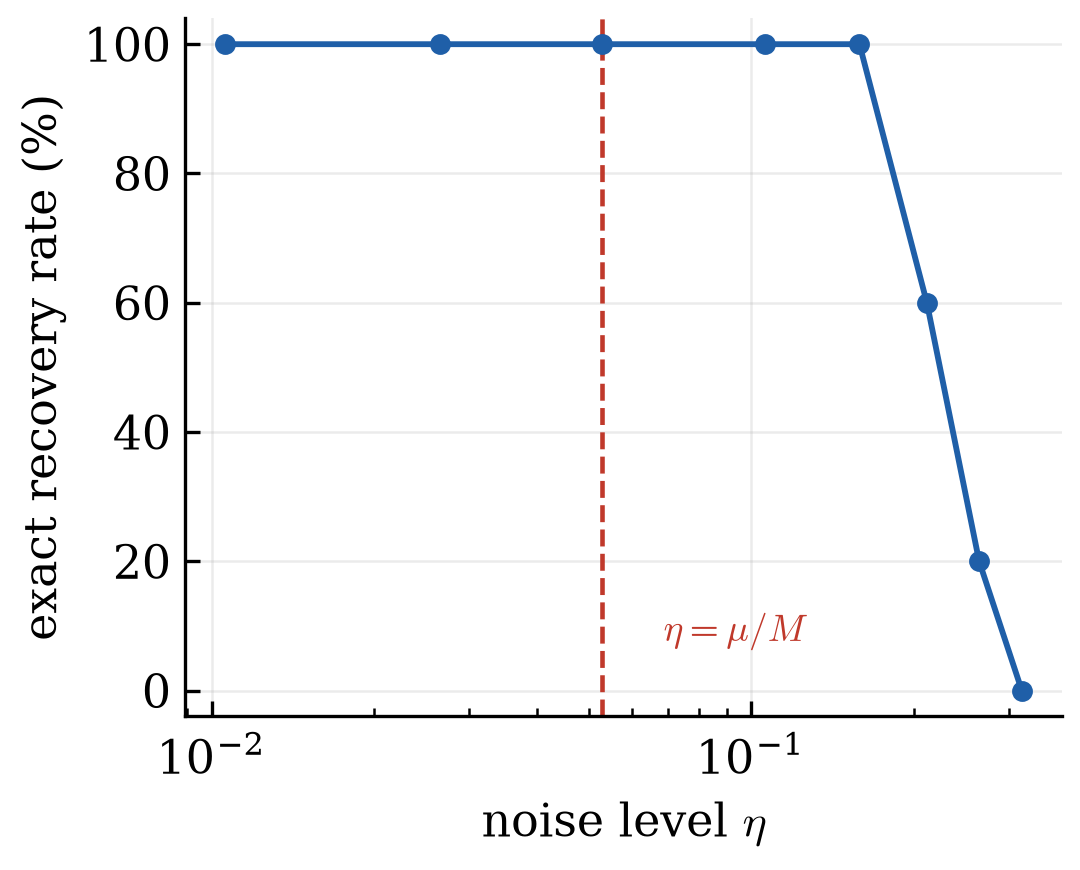
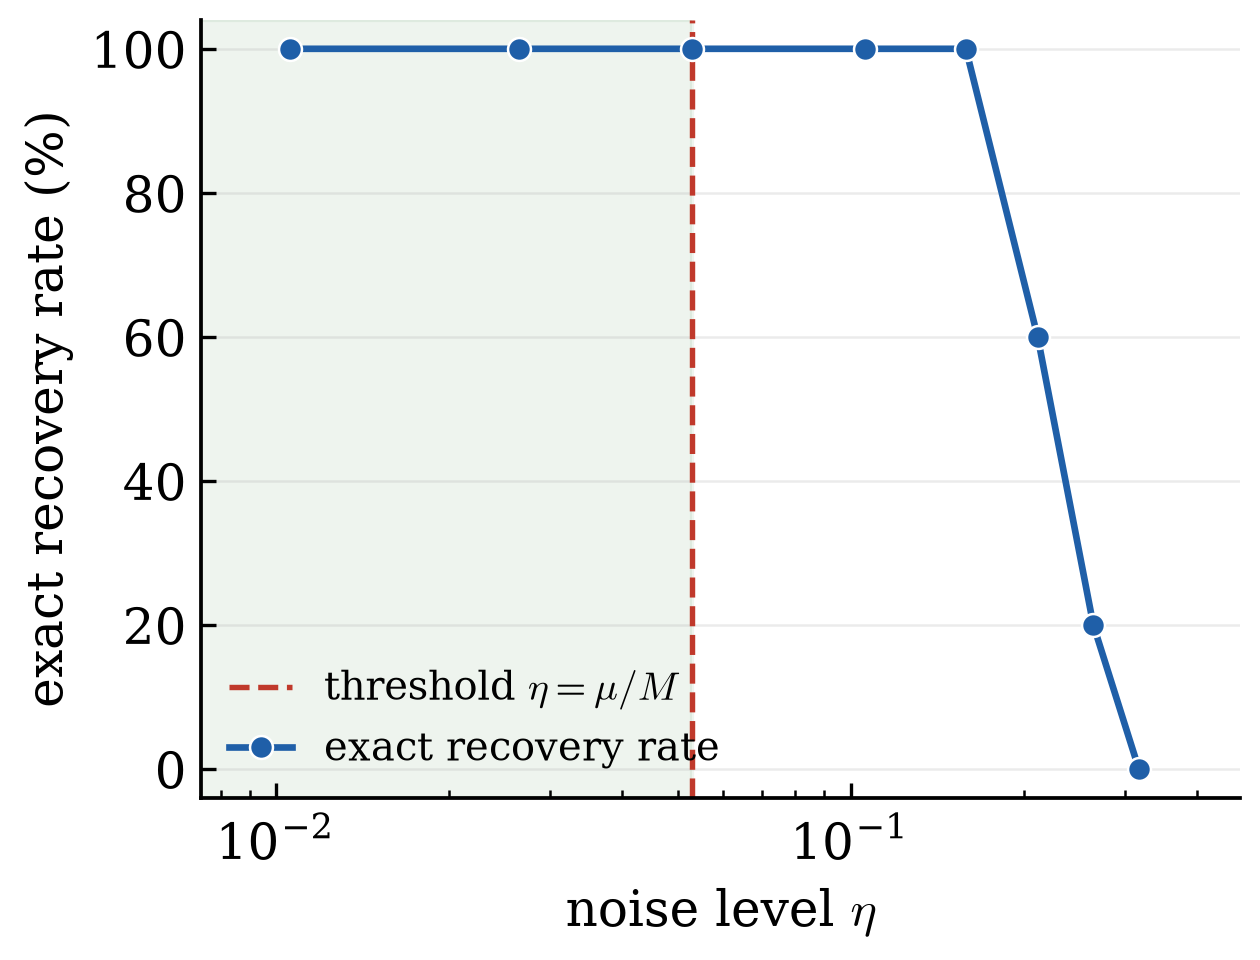
Version pro de la figure Exp 2 : zone garantie ombree, legende, echelle log avec ticks mineurs lisibles

diff --git a/figure_papier_bruit_eta_reel.py b/figure_papier_bruit_eta_reel.py
@@ -1,9 +1,8 @@
 """ Figure Exp 2 (validation du Theoreme 3, robustesse au bruit) : axe X
 = bruit reel eta, ligne verticale = valeur exacte de mu/M, pour UNE
 cible concrete fixee (n=4, cible=[1,2,3,4], a=1.0 b=0.3 c=1.0 d=0.1 --
-nos parametres habituels). Plus concrete/lisible que le graphe agrege
-sur plusieurs n (r=eta/eta_max) : montre directement les vrais nombres
-pour un exemple precis, avec le seuil bien centre dans la plage testee.
+nos parametres habituels). Version "pro" : zone garantie ombree, legende
+propre, echelle log avec ticks lisibles.
 """
 
 import matplotlib
@@ -11,31 +10,51 @@ matplotlib.use("Agg")
 matplotlib.rcParams.update({
     "font.family": "serif",
     "mathtext.fontset": "cm",
-    "font.size": 11,
-    "axes.linewidth": 0.8,
+    "font.size": 12,
+    "axes.linewidth": 0.9,
     "xtick.direction": "in",
     "ytick.direction": "in",
+    "xtick.minor.visible": True,
+    "ytick.minor.visible": False,
+    "legend.frameon": False,
 })
 import matplotlib.pyplot as plt
+from matplotlib.ticker import LogLocator, NullFormatter
 
 eta_max = 0.05288
 etas = [0.01058, 0.02644, 0.05288, 0.10577, 0.15865, 0.21154, 0.26442, 0.31731]
 taux = [100.0, 100.0, 100.0, 100.0, 100.0, 60.0, 20.0, 0.0]
 
-fig, ax = plt.subplots(figsize=(3.6, 2.9))
-ax.plot(etas, taux, marker="o", markersize=4, linewidth=1.4,
-        color="#1f5fa8", zorder=3)
-ax.axvline(eta_max, color="#c0392b", linestyle="--", linewidth=1.1, zorder=2)
-ax.text(eta_max * 1.3, 6, r"$\eta = \mu/M$", color="#c0392b", fontsize=9, va="bottom")
+BLUE = "#1f5fa8"
+RED = "#c0392b"
+GREEN_FILL = "#2e7d32"
+
+fig, ax = plt.subplots(figsize=(4.2, 3.2))
+
+# zone garantie par le Theoreme 3 (eta < mu/M)
+ax.axvspan(etas[0] * 0.5, eta_max, color=GREEN_FILL, alpha=0.08, zorder=0)
+ax.axvline(eta_max, color=RED, linestyle="--", linewidth=1.3, zorder=2,
+           label=r"threshold $\eta = \mu/M$")
+
+ax.plot(etas, taux, marker="o", markersize=5.5, linewidth=1.6,
+        color=BLUE, markeredgecolor="white", markeredgewidth=0.6,
+        zorder=3, label="exact recovery rate")
 
 ax.set_xscale("log")
+ax.xaxis.set_major_locator(LogLocator(base=10))
+ax.xaxis.set_minor_locator(LogLocator(base=10, subs=range(2, 10)))
+ax.xaxis.set_minor_formatter(NullFormatter())
+
 ax.set_xlabel(r"noise level $\eta$")
 ax.set_ylabel("exact recovery rate (%)")
+ax.set_xlim(etas[0] * 0.7, etas[-1] * 1.5)
 ax.set_ylim(-4, 104)
 ax.set_yticks([0, 20, 40, 60, 80, 100])
-ax.grid(True, which="major", alpha=0.25, linewidth=0.6)
+ax.grid(True, which="major", axis="y", alpha=0.25, linewidth=0.6)
 ax.spines["top"].set_visible(False)
 ax.spines["right"].set_visible(False)
+
+ax.legend(loc="lower left", fontsize=9.5, handlelength=1.6, borderaxespad=0.3)
 
 fig.tight_layout(pad=0.4)
 fig.savefig("figures/succes_vs_eta_reel_n4.pdf")